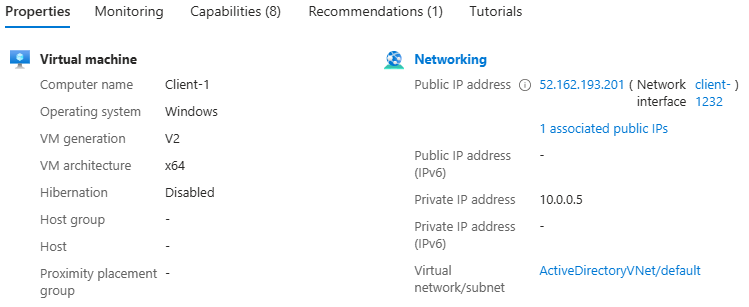
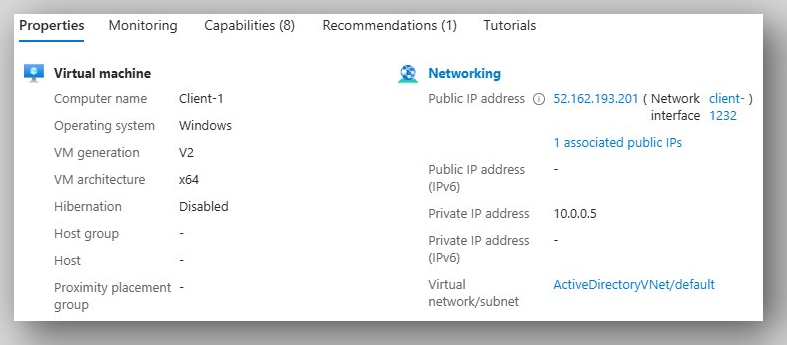
changed image to have borders to distinguish them as photos

diff --git a/01-environment-setup.md b/01-environment-setup.md
@@ -8,13 +8,8 @@ I've built a Windows Server 2022 Domain Controller and a Windows 10 Pro client c
 
 ## 🗂 Lab Architecture
 
-<table>
-  <tr>
-    <td style="background:#a6a6a6; border:8px solid #000; padding:18px;">
-      <img src="https://github.com/lilhojicha/ActiveDirectory/blob/main/screenshots/01-setup/network.png">
-    </td>
-  </tr>
-</table>
+
+![Network Topology](https://github.com/lilhojicha/ActiveDirectory/blob/main/screenshots/01-setup/network.png)
 
 
 ```
@@ -38,13 +33,6 @@ For lab demonstration purposes, this diagram shows public IPs for simplicity.
 
 ![Resource Group Configuration ](https://github.com/lilhojicha/ActiveDirectory/blob/main/screenshots/01-setup/resourcegroup.png)
 
-<table>
-  <tr>
-    <td style="background:#d9d9d9; border:6px solid #000; padding:14px;">
-      <img src="https://github.com/lilhojicha/ActiveDirectory/blob/main/screenshots/01-setup/resourcegroup.png">
-    </td>
-  </tr>
-</table>
 
 
 ### Virtual Network & Subnet
@@ -55,13 +43,6 @@ For lab demonstration purposes, this diagram shows public IPs for simplicity.
 
 ![Resource Group Configuration ](https://github.com/lilhojicha/ActiveDirectory/blob/main/screenshots/01-setup/virtualnetwork.png)
 
-<table>
-  <tr>
-    <td style="background:#d9d9d9; border:6px solid #000; padding:14px;">
-      <img src="https://github.com/lilhojicha/ActiveDirectory/blob/main/screenshots/01-setup/virtualnetwork.png">
-    </td>
-  </tr>
-</table>
 
 ### Domain Controller VM (Windows Server 2019)
 - **Image:** Windows Server 2022 Datacenter
@@ -72,13 +53,7 @@ For lab demonstration purposes, this diagram shows public IPs for simplicity.
 
 ![Resource Group Configuration ](https://github.com/lilhojicha/ActiveDirectory/blob/main/screenshots/01-setup/DC-1.png)
 
-<table>
-  <tr>
-    <td style="background:#d9d9d9; border:6px solid #000; padding:14px;">
-      <img src="https://github.com/lilhojicha/ActiveDirectory/blob/main/screenshots/01-setup/DC-1.png">
-    </td>
-  </tr>
-</table>
+
 
 ### Client VM (Windows 10 Pro)
 - **Image:** Windows 10 Pro
@@ -89,13 +64,6 @@ For lab demonstration purposes, this diagram shows public IPs for simplicity.
 
 ![Resource Group Configuration ](https://github.com/lilhojicha/ActiveDirectory/blob/main/screenshots/01-setup/Client-1.png)
 
-<table>
-  <tr>
-    <td style="background:#d9d9d9; border:6px solid #000; padding:14px;">
-      <img src="https://github.com/lilhojicha/ActiveDirectory/blob/main/screenshots/01-setup/Client-1.png">
-    </td>
-  </tr>
-</table>
 
 
 ## Pre-Configuration Steps
@@ -109,10 +77,3 @@ For lab demonstration purposes, this diagram shows public IPs for simplicity.
 
 ![Resource Group Configuration ](https://github.com/lilhojicha/ActiveDirectory/blob/main/screenshots/01-setup/validation.png)
 
-<table>
-  <tr>
-    <td style="background:#d9d9d9; border:6px solid #000; padding:14px;">
-      <img src="https://github.com/lilhojicha/ActiveDirectory/blob/main/screenshots/01-setup/validation.png">
-    </td>
-  </tr>
-</table>
